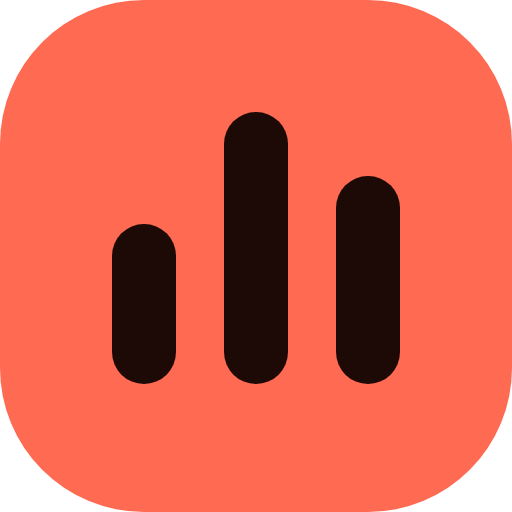
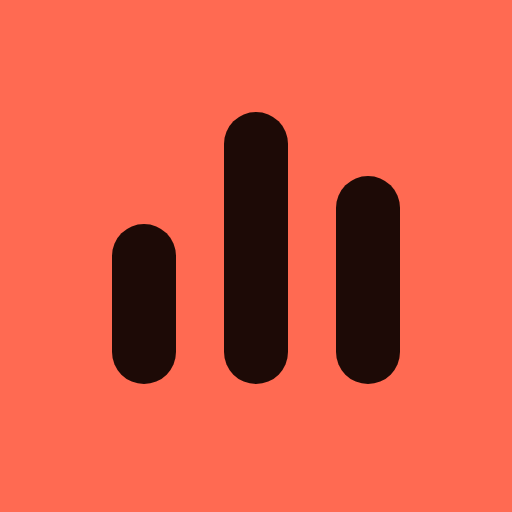
Add files via upload

diff --git a/index.html b/index.html
@@ -2,11 +2,9 @@
 <html lang="ja"><head><meta charset="utf-8"><meta name="viewport" content="width=device-width,initial-scale=1,viewport-fit=cover">
 <title>Otobako</title>
 <link rel="manifest" href="manifest.webmanifest">
[5 lines of base64/hex data omitted]
+<link rel="icon" type="image/png" sizes="32x32" href="icon-32.png">
+<link rel="icon" type="image/png" sizes="64x64" href="icon-64.png">
+<link rel="apple-touch-icon" sizes="180x180" href="apple-touch-icon.png">
 <meta name="theme-color" content="#ff6a52">
 <meta name="apple-mobile-web-app-capable" content="yes">
 <meta name="mobile-web-app-capable" content="yes">

diff --git a/sw.js b/sw.js
@@ -1,7 +1,7 @@
 // Otobako service worker: keeps the app files on the device so it opens without a connection.
 // When you upload a new index.html, change VERSION so devices pick up the update.
-const VERSION = 'otobako-v1';
-const FILES = ['./', './index.html', './manifest.webmanifest', './icon-192.png', './icon-512.png', './icon-maskable-512.png', './apple-touch-icon.png'];
+const VERSION = 'otobako-v3';
+const FILES = ['./', './index.html', './manifest.webmanifest', './icon-192.png', './icon-512.png', './icon-maskable-512.png', './apple-touch-icon.png', './icon-32.png', './icon-64.png'];
 
 self.addEventListener('install', e => {
   e.waitUntil(caches.open(VERSION).then(c => c.addAll(FILES)).then(() => self.skipWaiting()));
